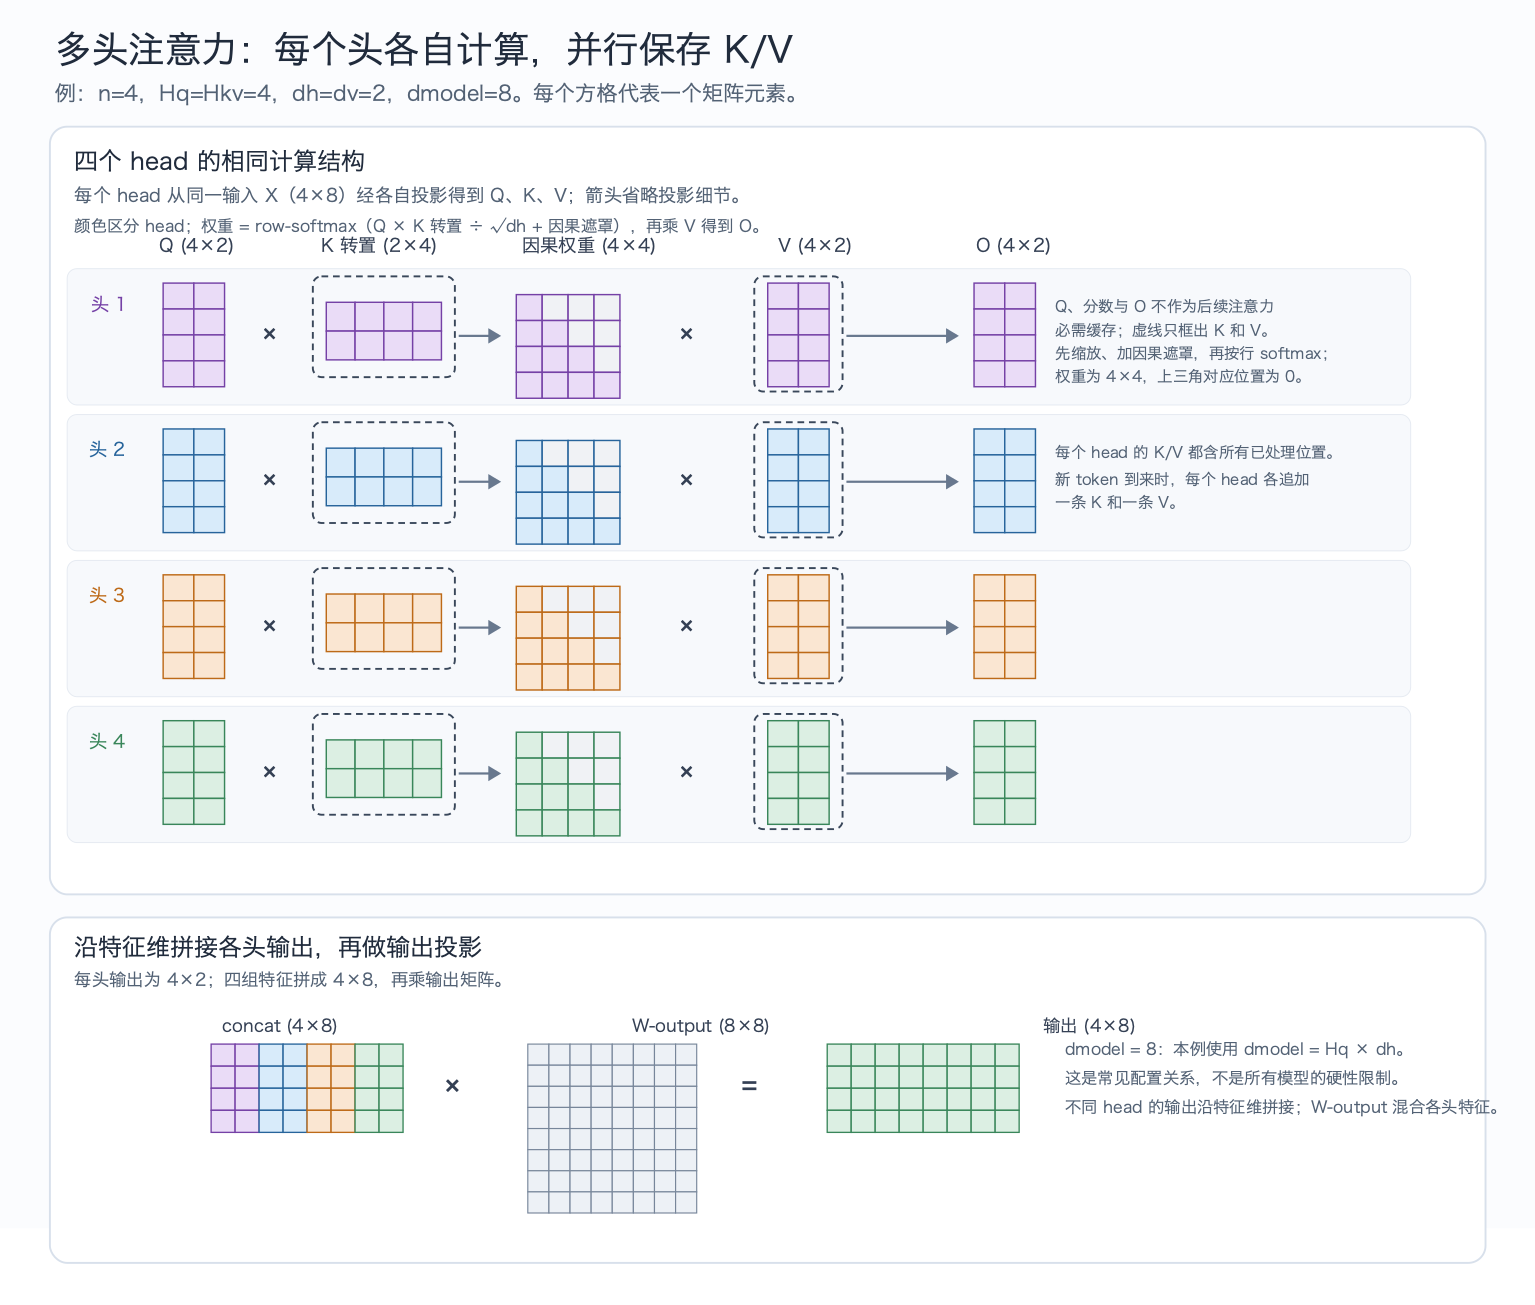
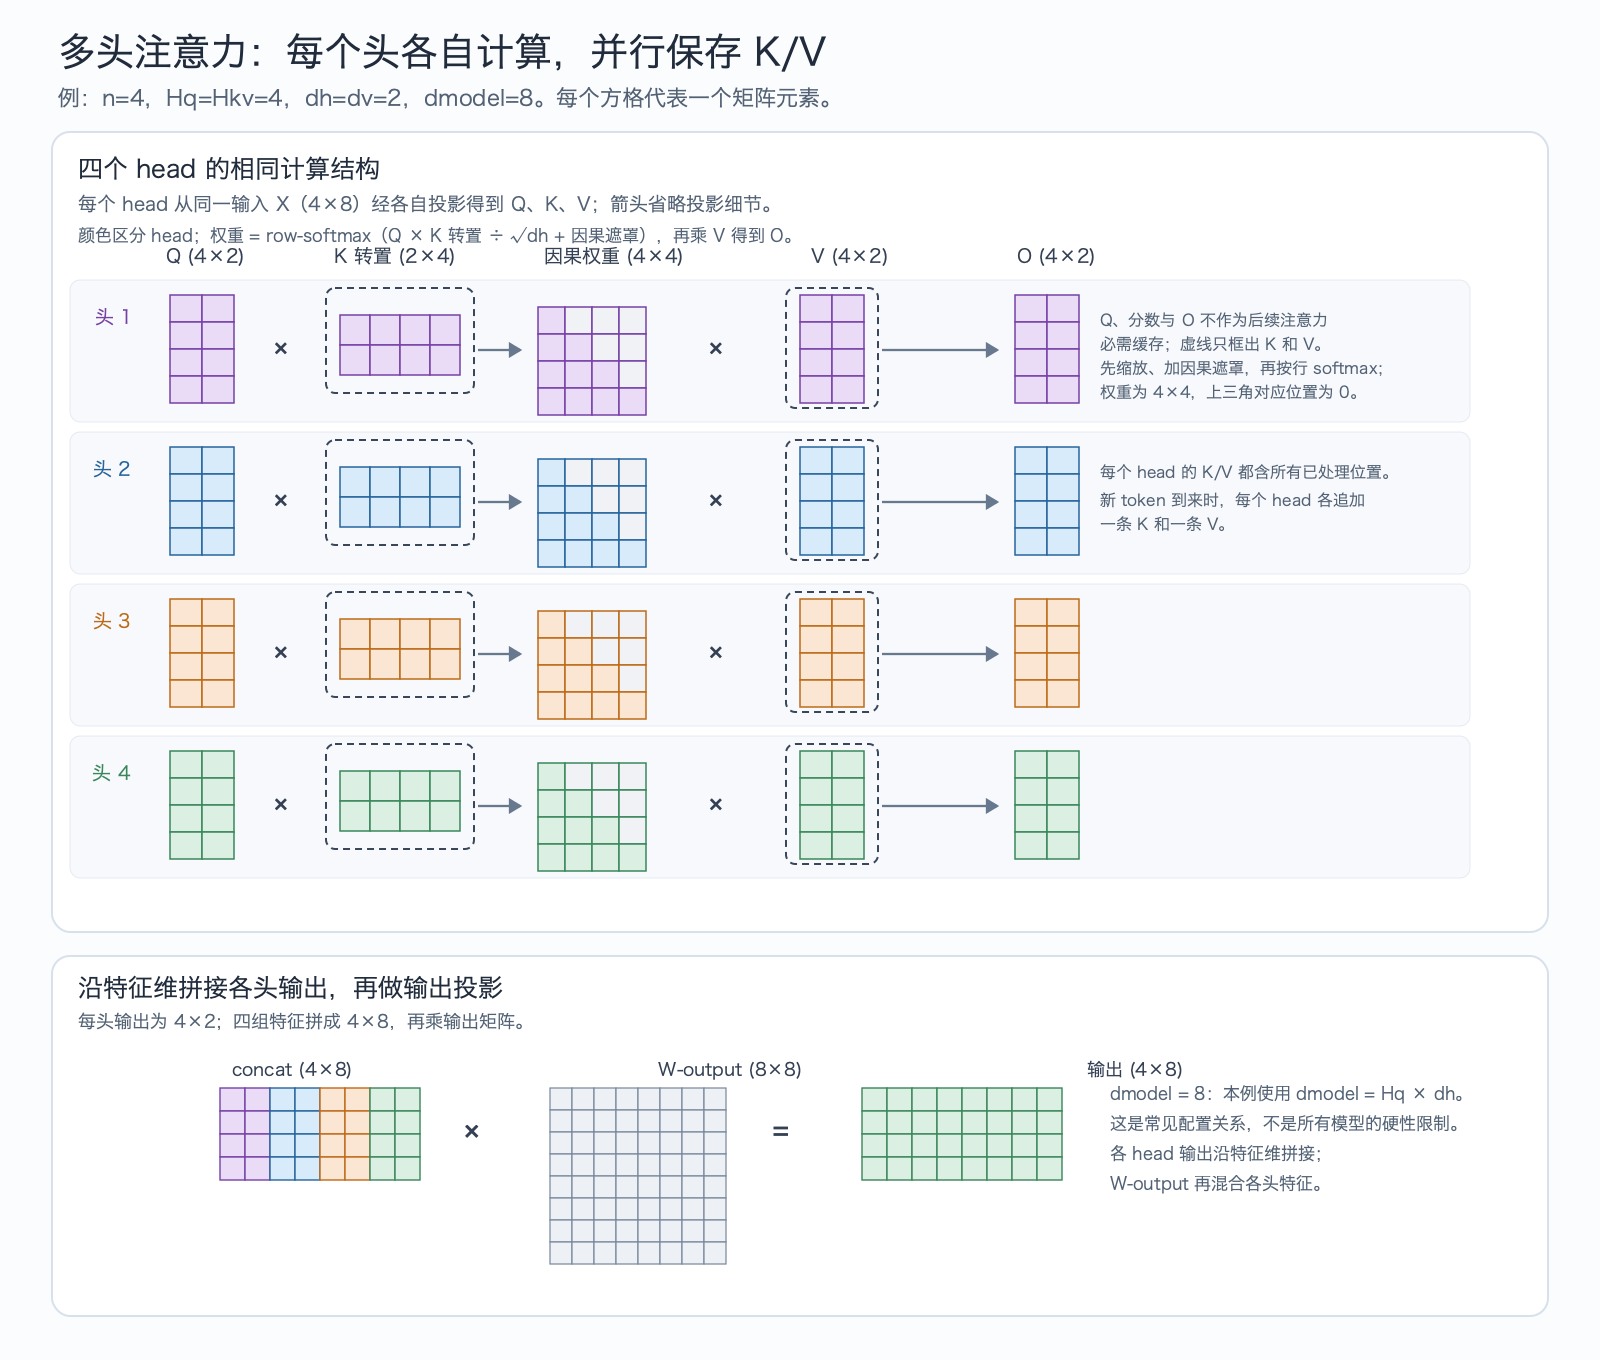
docs: install reviewed multihead and KV cache state figures

diff --git a/drafts/assets/kv-cache-fundamentals/figure-sources.md b/drafts/assets/kv-cache-fundamentals/figure-sources.md
@@ -34,3 +34,7 @@
 - 以上均为教学假设，不是模型实测数据。
 
 - 2026-10-28：用户确认Decoder第二版；替换为`review-2026-10-28/revisions/decoder-stack-v2.svg`。层间留白70px，两条残差支路分别在主干加号汇合，再进入LayerNorm；主agent已检查完整图与局部预览。
+
+- 2026-10-28：按用户要求安装审阅目录中的multihead-kv修订版，修复文字边界或线路重叠；同步SVG与无损WebP。
+
+- 2026-10-28：按用户要求安装审阅目录中的kv-cache-state-steps修订版，修复文字边界或线路重叠；同步SVG与无损WebP。

diff --git a/openspec/changes/kv-cache-research/tasks.md b/openspec/changes/kv-cache-research/tasks.md
@@ -132,3 +132,5 @@
 - [x] 9.9 用户明确确认Decoder第二版，已同步正文和草稿的SVG/WebP及图注；其余候选图继续等待确认。
 
 - [x] 9.10 按用户要求精简标题，原第二至四章合并为“KV Cache”，成本放2.7末节；同步草稿和Design。
+
+图2多头注意力、图6缓存步骤已按用户本轮明确要求安装修订版，带宽新增图仍待确认。

diff --git a/drafts/assets/kv-cache-fundamentals/review-2026-10-28/review.md b/drafts/assets/kv-cache-fundamentals/review-2026-10-28/review.md
@@ -41,3 +41,5 @@ attention-matrix-shapes、causal-attention-matrix、kv-cache-recompute-compariso
 ## Decoder第二版已确认
 
 用户明确同意更新正文配图。已安装decoder-stack-v2到正文与草稿资产，其他候选图仍待确认。
+
+图2多头注意力、图6缓存步骤已按用户本轮明确要求安装修订版，带宽新增图仍待确认。
